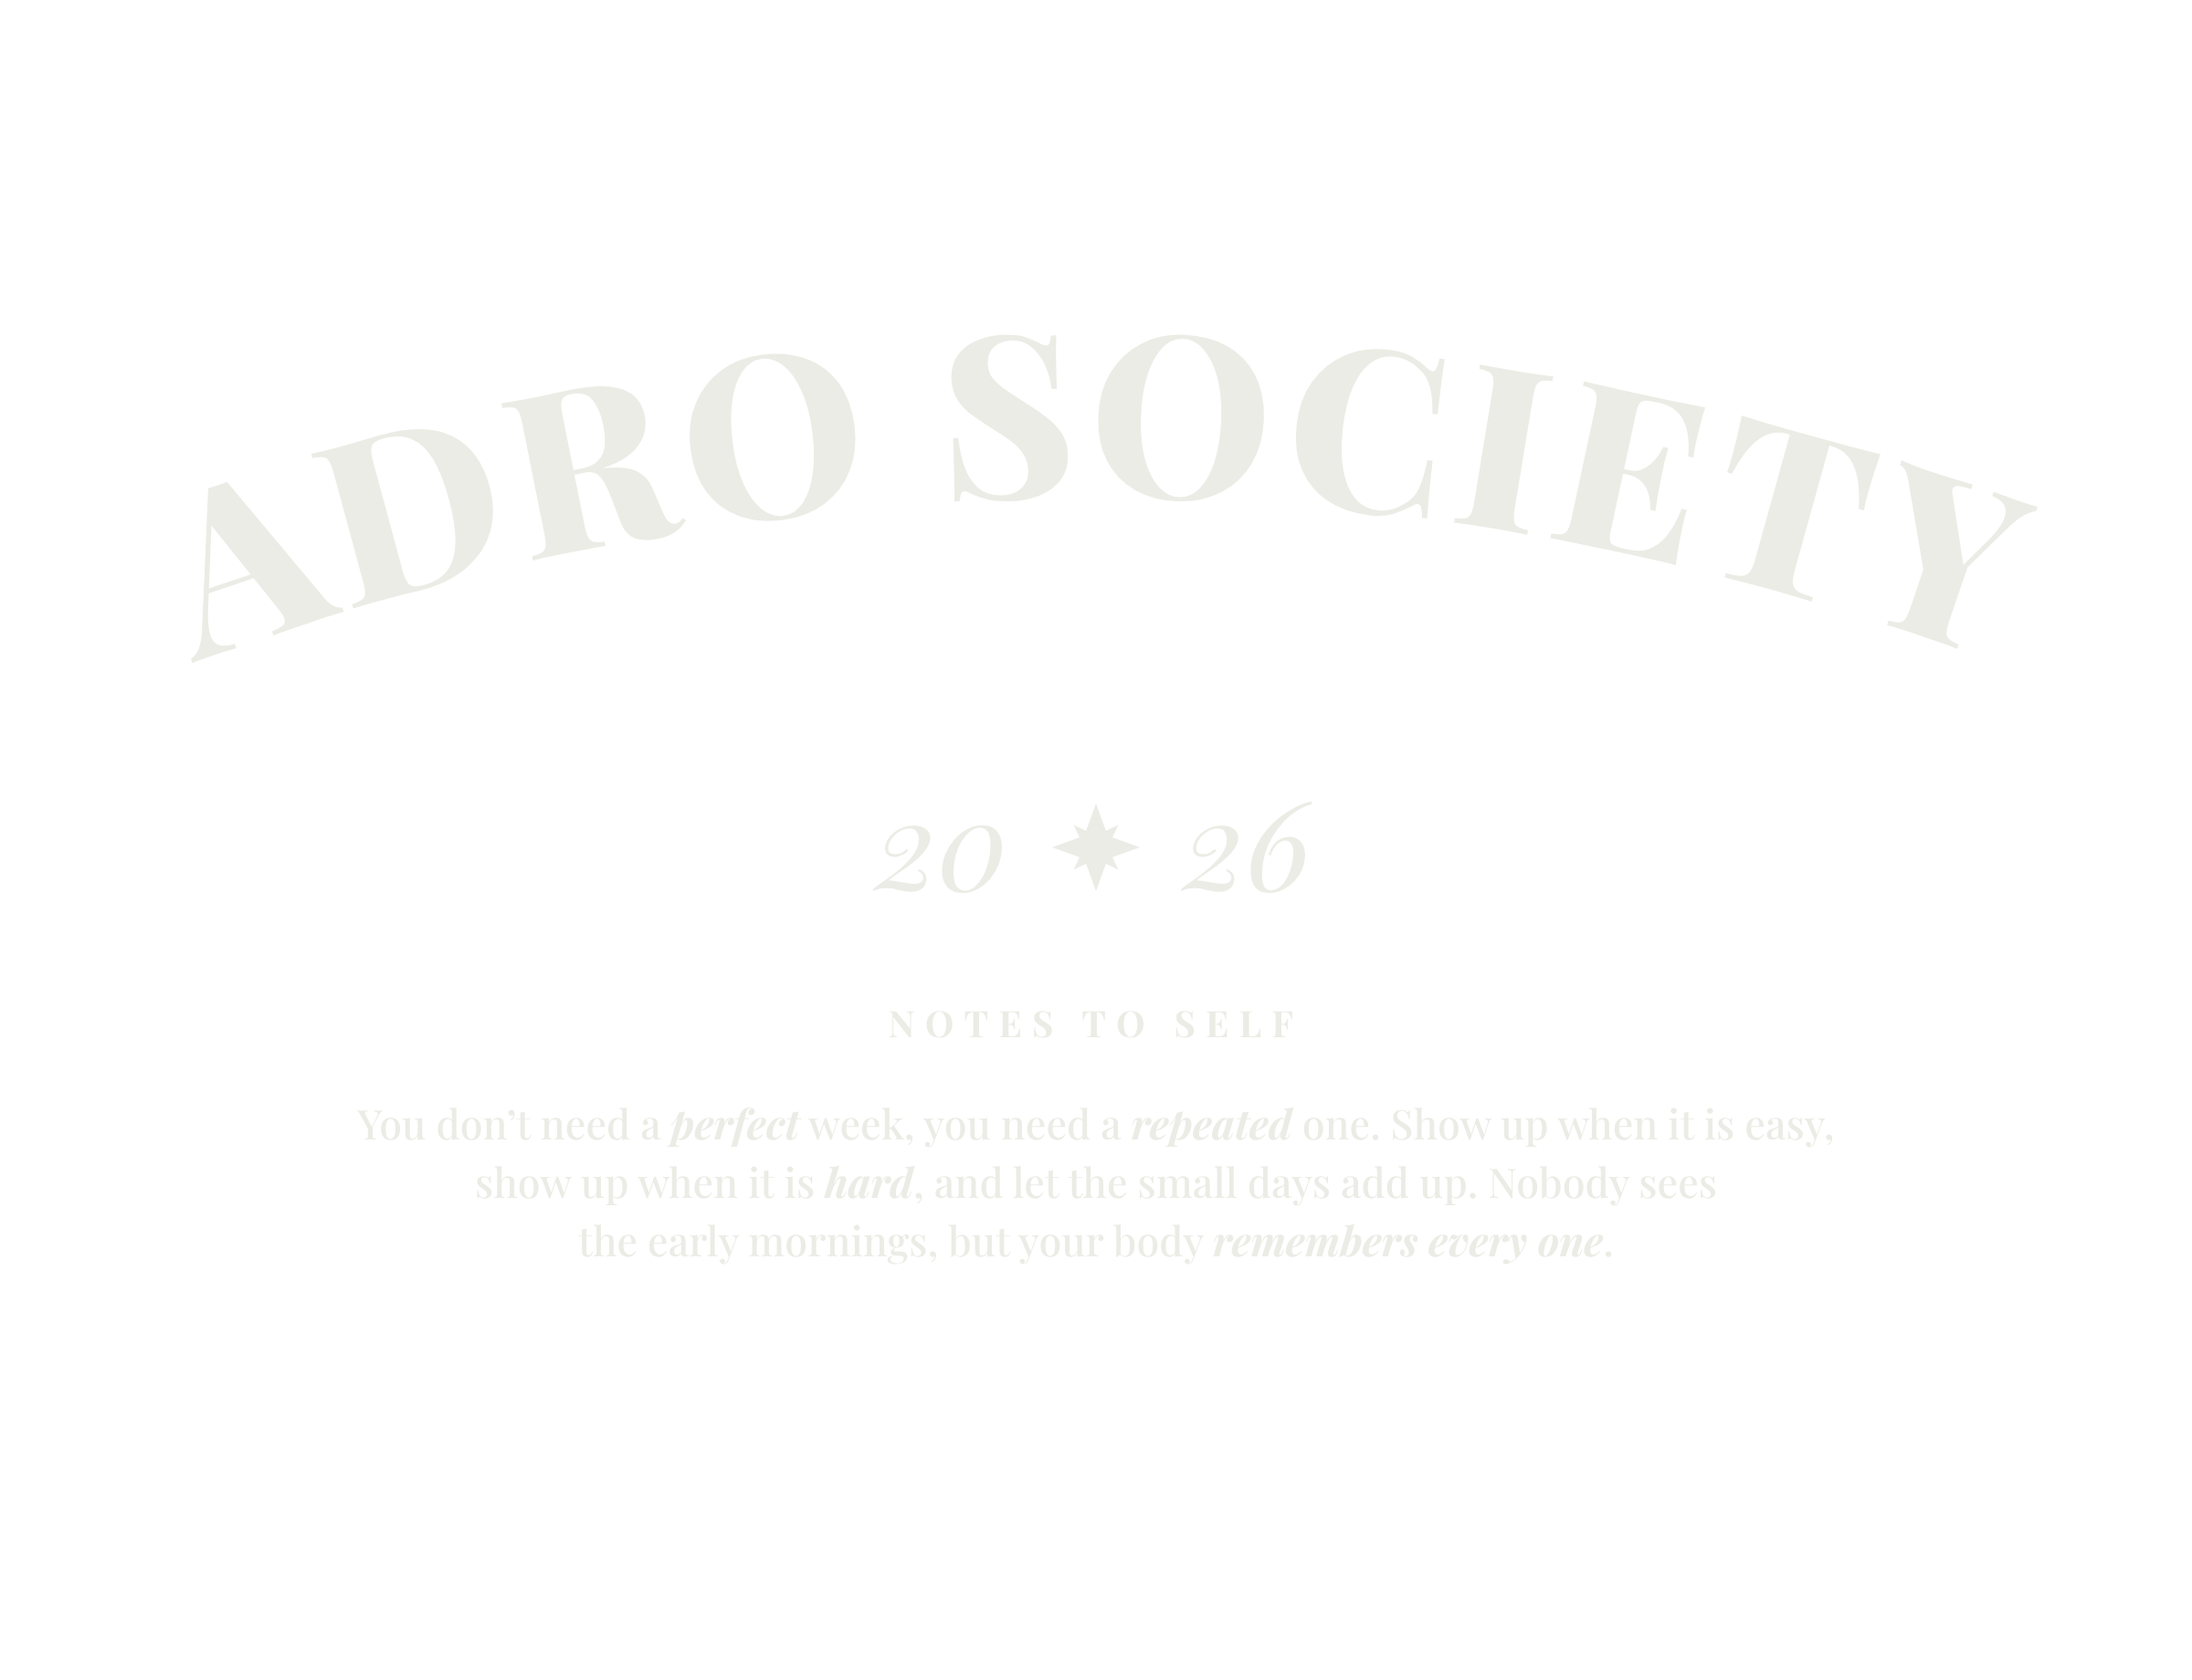
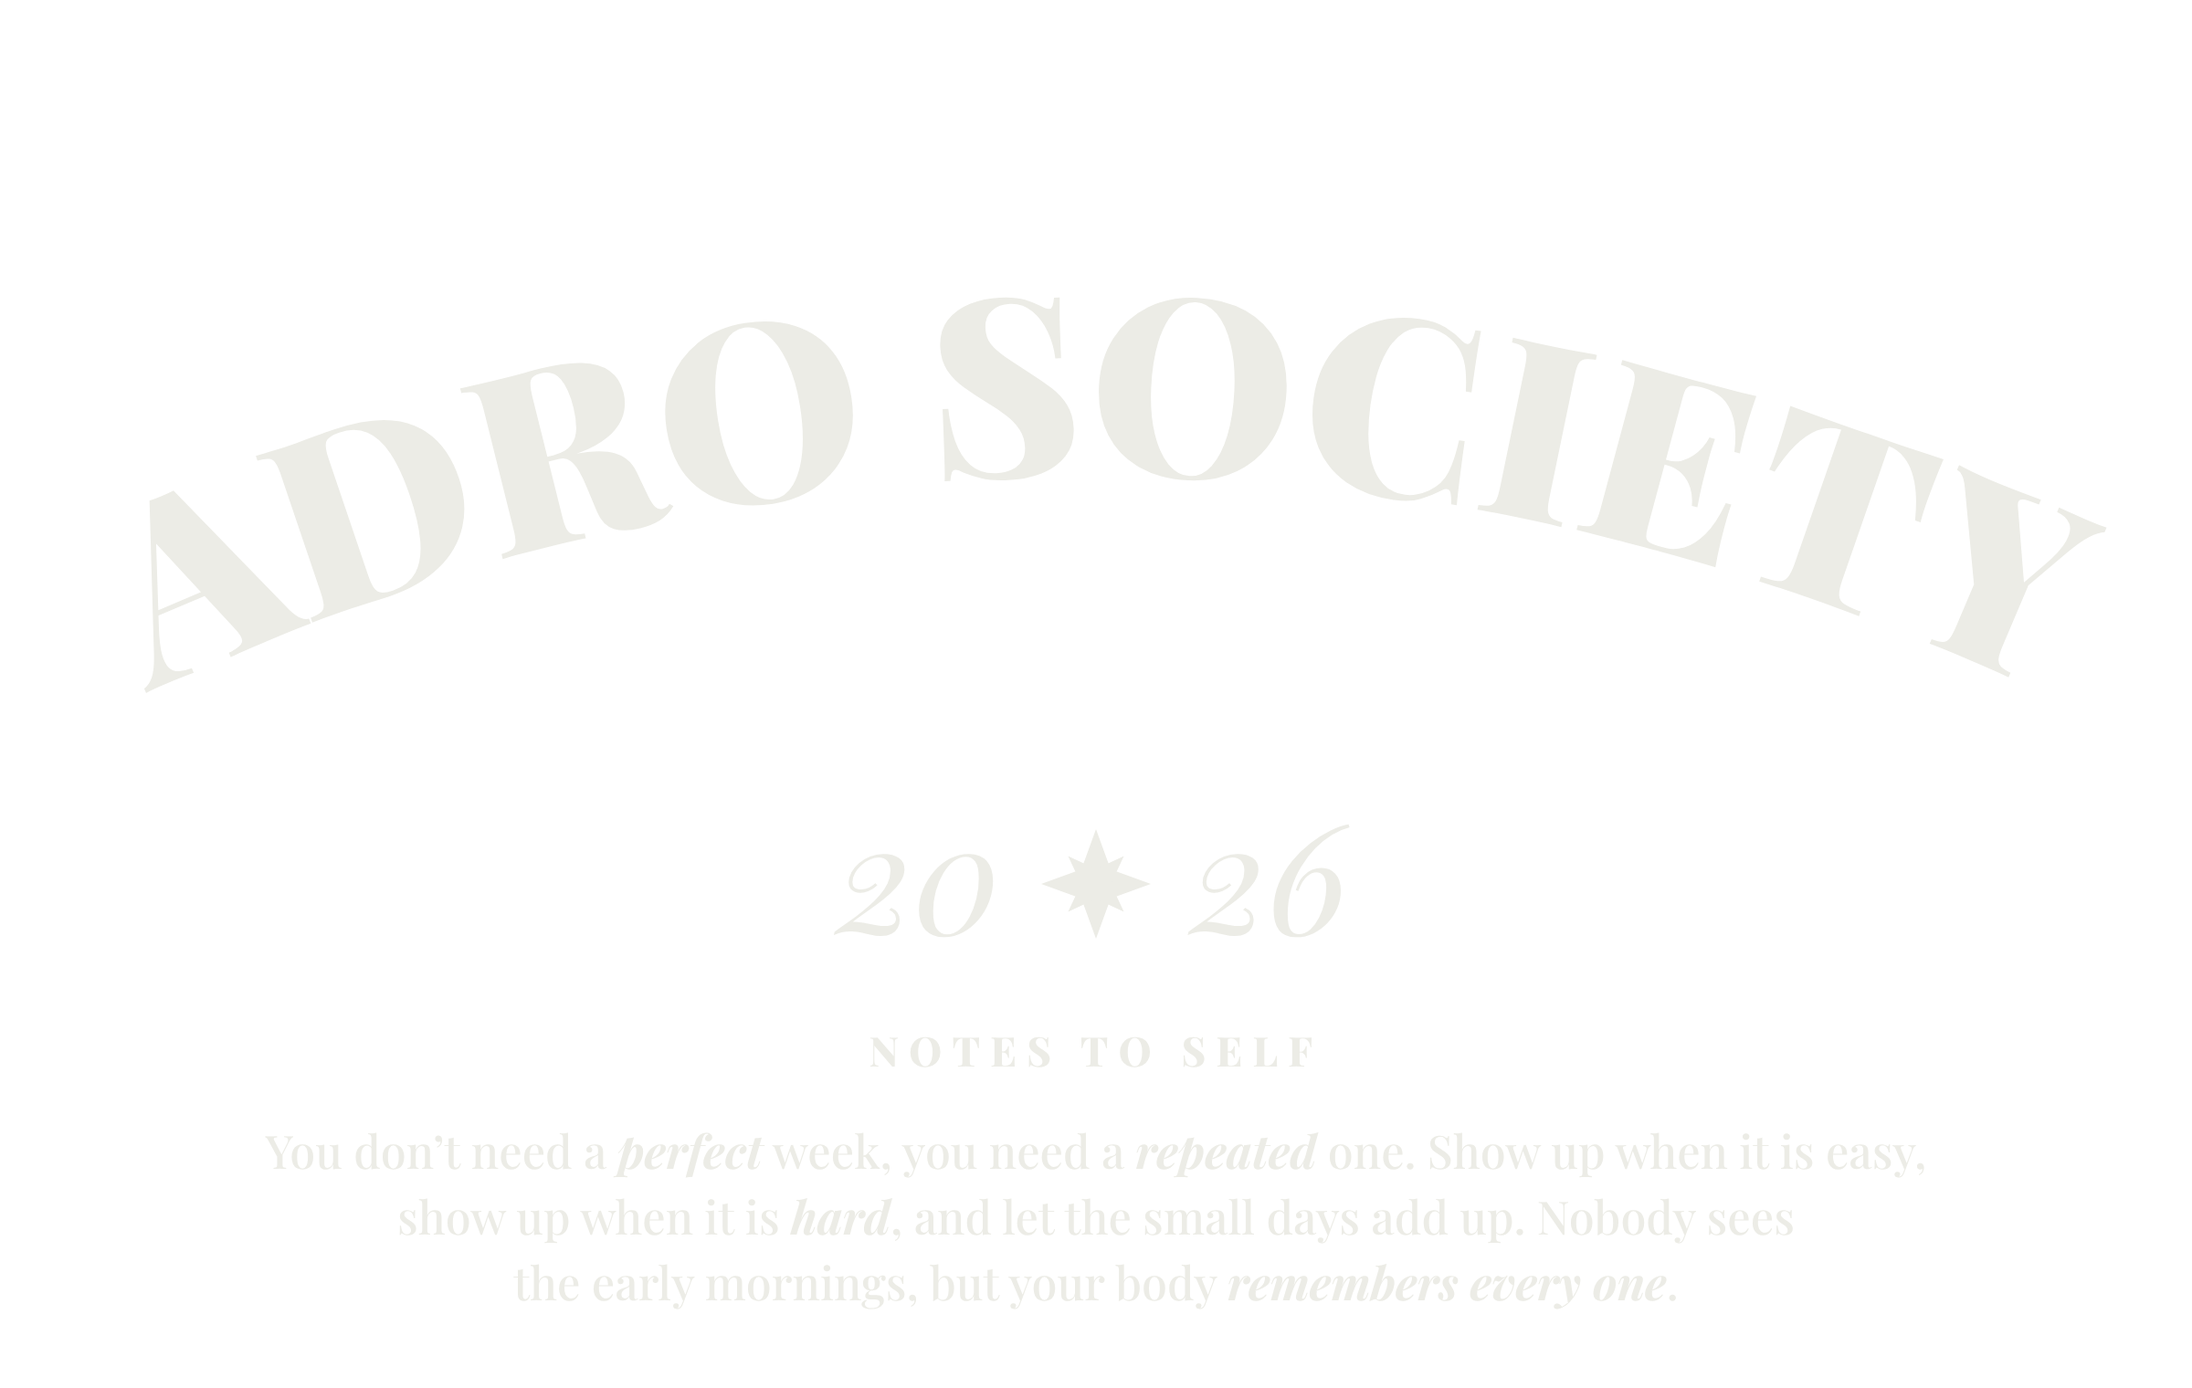
Brand: Adro Society back made big, bolder arch
Claude-Session: https://claude.ai/code/session_01JFp6iswHHaXm5YTZNqTb2P

diff --git a/docs/brand/clothes/hoodie-pulse/source/art_society.html b/docs/brand/clothes/hoodie-pulse/source/art_society.html
@@ -1,18 +1,18 @@
 <!doctype html><html><head><meta charset="utf-8">
-<link href="https://fonts.googleapis.com/css2?family=Playfair+Display:ital,wght@0,500;0,700;0,800;1,400;1,700&display=swap" rel="stylesheet">
+<link href="https://fonts.googleapis.com/css2?family=Playfair+Display:ital,wght@0,500;0,700;0,800;0,900;1,400;1,700&display=swap" rel="stylesheet">
 <style>*{margin:0}html,body{background:transparent}svg{display:block}</style></head><body>
-<svg id="s" xmlns="http://www.w3.org/2000/svg" width="2400" height="1840" viewBox="0 0 300 230">
+<svg id="s" xmlns="http://www.w3.org/2000/svg" width="2400" height="1520" viewBox="0 0 300 190">
 <!-- Back print: arched name, the year with a Najdi star, a small title and a short note. 1 unit = 1 mm. -->
-<defs><path id="arc" d="M 4 100 Q 150 36 296 100"/></defs>
-<text font-family="Playfair Display" font-weight="800" font-size="31" letter-spacing="1.2" fill="#ECECE6" text-anchor="middle"><textPath href="#arc" startOffset="50%">ADRO SOCIETY</textPath></text>
-<g font-family="Playfair Display" font-style="italic" font-weight="400" font-size="17" fill="#ECECE6">
-  <text x="138" y="122" text-anchor="end">20</text><text x="162" y="122" text-anchor="start">26</text>
+<defs><path id="arc" d="M 2 104 Q 150 26 298 104"/></defs>
+<text font-family="Playfair Display" font-weight="900" font-size="34" letter-spacing=".2" fill="#ECECE6" text-anchor="middle"><textPath href="#arc" startOffset="50%">ADRO SOCIETY</textPath></text>
+<g font-family="Playfair Display" font-style="italic" font-weight="400" font-size="21" fill="#ECECE6">
+  <text x="137" y="128" text-anchor="end">20</text><text x="163" y="128" text-anchor="start">26</text>
 </g>
-<g transform="translate(150 116)" fill="#ECECE6"><path id="st" d="M0 -6 L1.6 -1.6 L6 0 L1.6 1.6 L0 6 L-1.6 1.6 L-6 0 L-1.6 -1.6Z"/><use href="#st" transform="rotate(45) scale(.72)"/></g>
-<text x="150" y="142" text-anchor="middle" font-family="Playfair Display" font-weight="700" font-size="5" letter-spacing="1.4" fill="#ECECE6">NOTES TO SELF</text>
-<g font-family="Playfair Display" font-weight="500" font-size="5.6" fill="#ECECE6" text-anchor="middle">
-  <text x="150" y="156">You don’t need a <tspan font-style="italic" font-weight="700">perfect</tspan> week, you need a <tspan font-style="italic" font-weight="700">repeated</tspan> one. Show up when it is easy,</text>
-  <text x="150" y="164">show up when it is <tspan font-style="italic" font-weight="700">hard</tspan>, and let the small days add up. Nobody sees</text>
-  <text x="150" y="172">the early mornings, but your body <tspan font-style="italic" font-weight="700">remembers every one</tspan>.</text>
+<g transform="translate(150 121) scale(1.25)" fill="#ECECE6"><path id="st" d="M0 -6 L1.6 -1.6 L6 0 L1.6 1.6 L0 6 L-1.6 1.6 L-6 0 L-1.6 -1.6Z"/><use href="#st" transform="rotate(45) scale(.72)"/></g>
+<text x="150" y="146" text-anchor="middle" font-family="Playfair Display" font-weight="800" font-size="5.6" letter-spacing="1.4" fill="#ECECE6">NOTES TO SELF</text>
+<g font-family="Playfair Display" font-weight="500" font-size="6.3" fill="#ECECE6" text-anchor="middle">
+  <text x="150" y="160">You don’t need a <tspan font-style="italic" font-weight="700">perfect</tspan> week, you need a <tspan font-style="italic" font-weight="700">repeated</tspan> one. Show up when it is easy,</text>
+  <text x="150" y="169">show up when it is <tspan font-style="italic" font-weight="700">hard</tspan>, and let the small days add up. Nobody sees</text>
+  <text x="150" y="178">the early mornings, but your body <tspan font-style="italic" font-weight="700">remembers every one</tspan>.</text>
 </g>
 </svg></body></html>

diff --git a/docs/brand/clothes/hoodie-pulse/v14-two-hoodies/README.md b/docs/brand/clothes/hoodie-pulse/v14-two-hoodies/README.md
@@ -4,6 +4,6 @@ Both: washed charcoal oversized hoodie, the blue adro ring centered on the chest
 
 Hoodie 1, ENDURANCE (back, art_emblem.svg, about 32 cm wide): ADRO arched in Roman capitals, Riyadh in italics, three camels in the spirit of Arabian rock art, a rule, ENDURANCE. Fonts: Cinzel, Playfair Display italic.
 
-Hoodie 2, ADRO SOCIETY (back, art_society.svg, about 38 cm wide): ADRO SOCIETY arched, 20 ✦ 26 with a Najdi star, NOTES TO SELF and the short note. Font: Playfair Display.
+Hoodie 2, ADRO SOCIETY (back, art_society.svg, about 44 cm wide, big like the EME reference: the arch spans shoulder to shoulder, starting about 4 cm under the hood): ADRO SOCIETY arched, 20 ✦ 26 with a Najdi star, NOTES TO SELF and the short note. Font: Playfair Display.
 
 Ink: off-white #ECECE6 (backs), blue #3355FF (ring, one sleeve). All vector, drawn by hand (no AI images).
